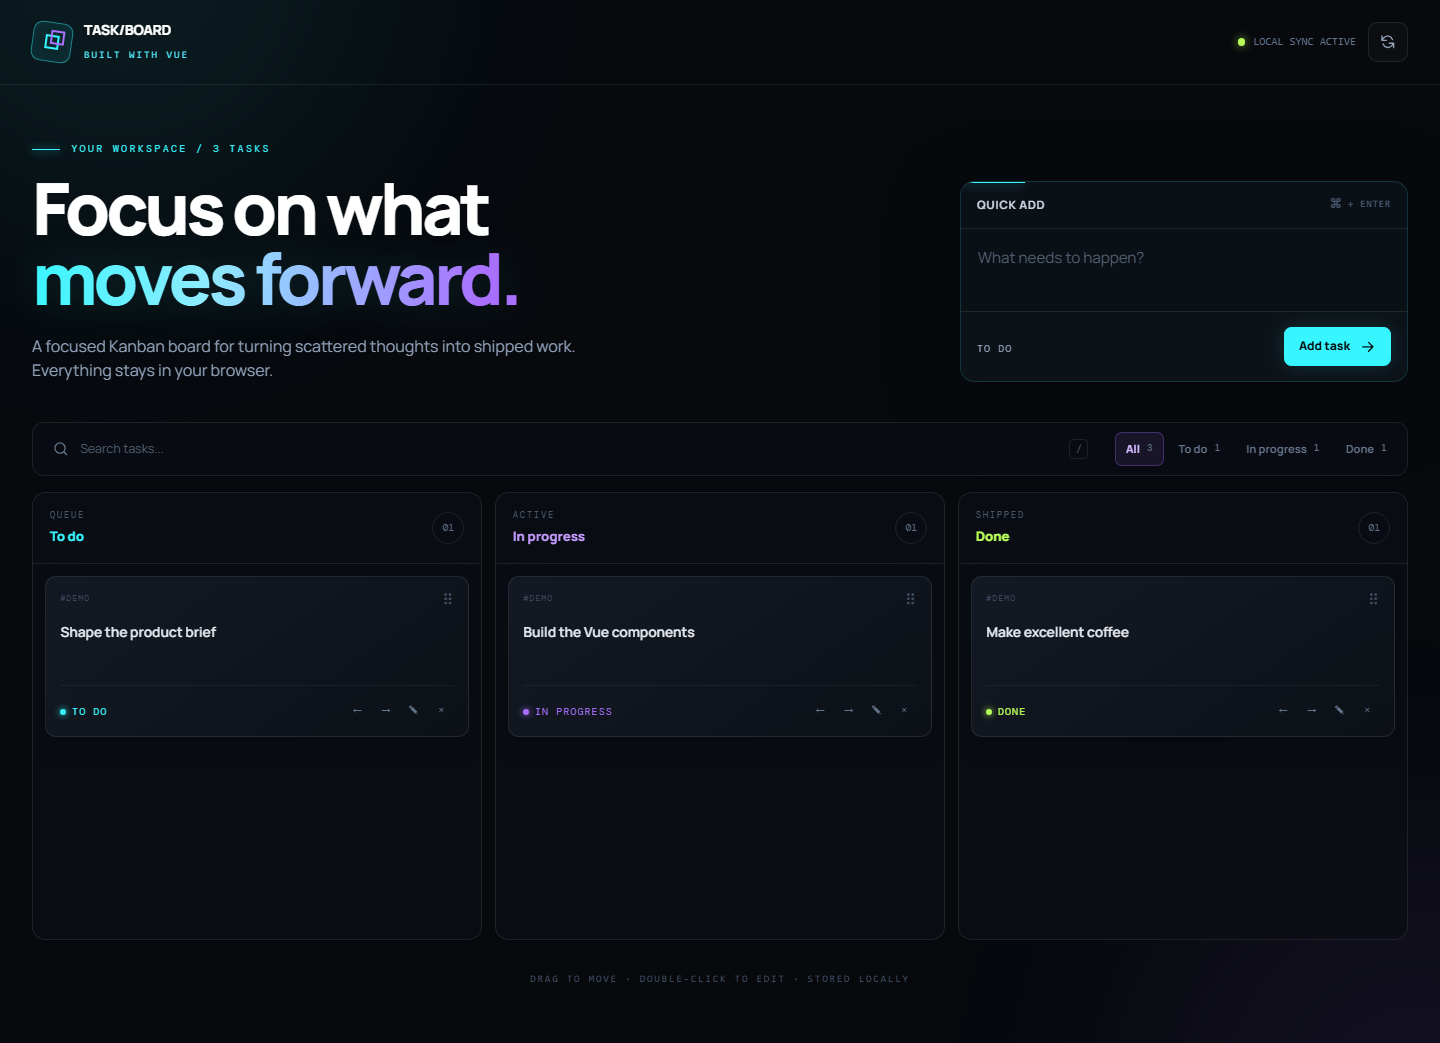
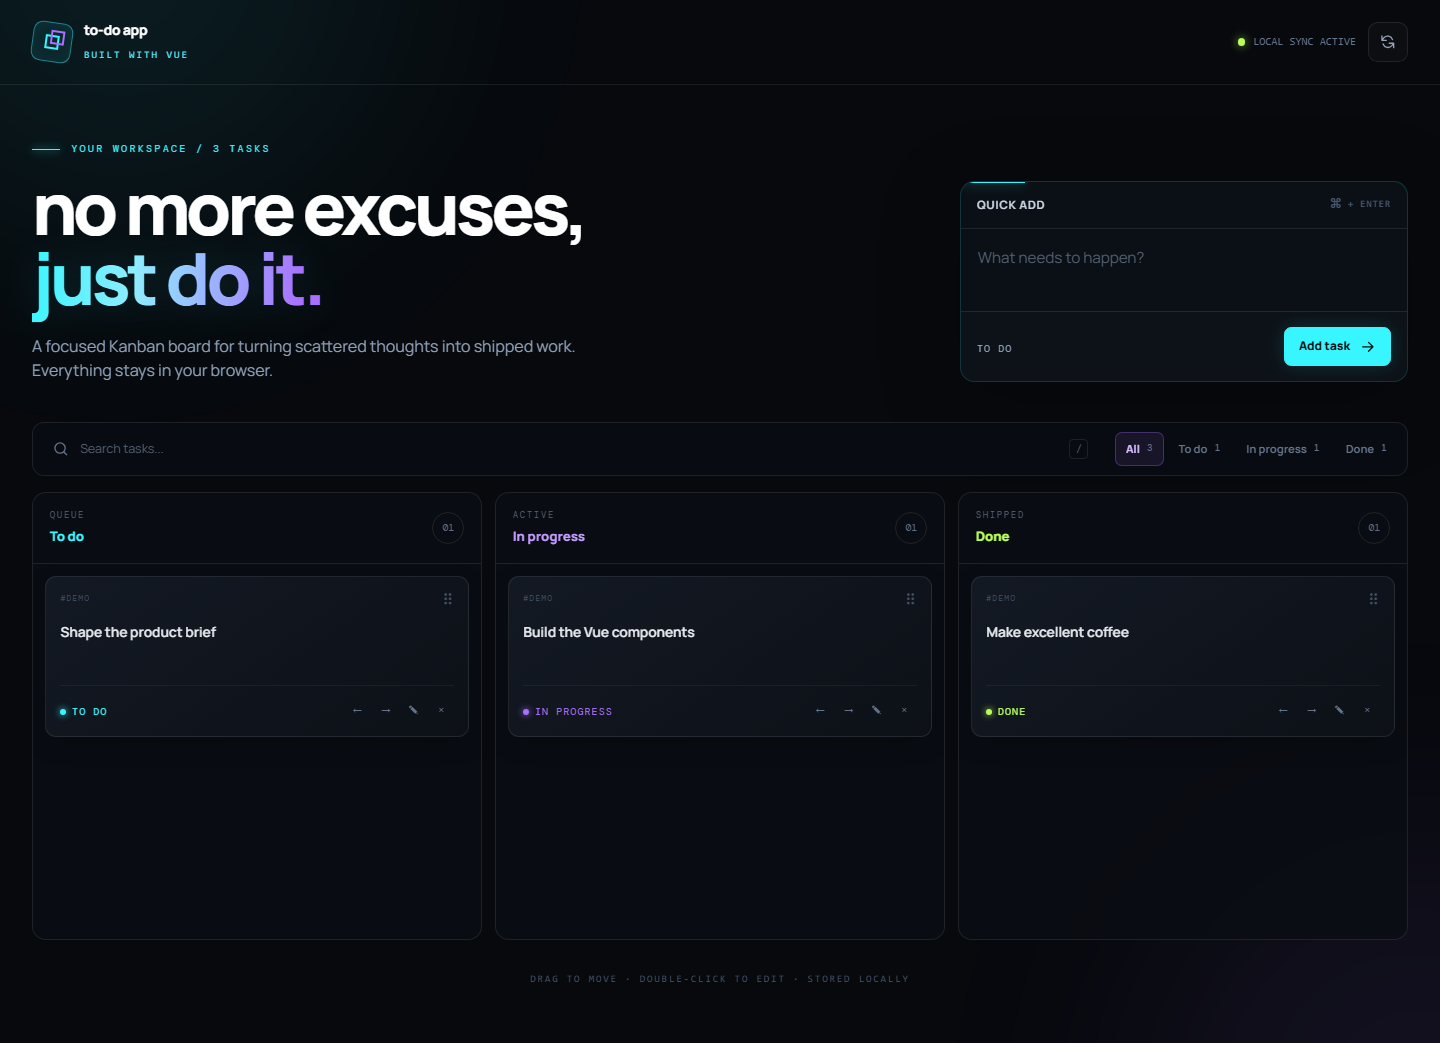
Update portfolio app copy

Changed region(s): [[0.0, 0.1534, 0.4062, 0.3068], [0.0625, 0.0, 0.125, 0.0307]]

diff --git a/src/App.vue b/src/App.vue
@@ -96,7 +96,7 @@ onBeforeUnmount(() => clearTimeout(undoTimer))
           </span>
           <span>
             <strong class="block text-sm font-extrabold tracking-tight text-white"
-              >TASK/BOARD</strong
+              >to-do app</strong
             >
             <span class="font-mono text-[10px] tracking-[0.2em] text-cyan-300">BUILT WITH VUE</span>
           </span>
@@ -133,8 +133,8 @@ onBeforeUnmount(() => clearTimeout(undoTimer))
           <h1
             class="mt-4 max-w-3xl text-4xl font-extrabold leading-[0.98] tracking-[-0.055em] text-white sm:text-6xl lg:text-7xl"
           >
-            Focus on what<br />
-            <span class="text-gradient">moves forward.</span>
+            no more excuses,<br />
+            <span class="text-gradient">just do it.</span>
           </h1>
           <p class="mt-5 max-w-xl text-sm leading-6 text-slate-400 sm:text-base">
             A focused Kanban board for turning scattered thoughts into shipped work. Everything

diff --git a/e2e/board.spec.js b/e2e/board.spec.js
@@ -3,7 +3,7 @@ import { expect, test } from '@playwright/test'
 test('creates, moves and persists a task', async ({ page }) => {
   await page.goto('/')
 
-  await expect(page.getByRole('heading', { name: /focus on what moves forward/i })).toBeVisible()
+  await expect(page.getByRole('heading', { name: /no more excuses, just do it/i })).toBeVisible()
   await page.getByLabel('Task title').fill('Prepare junior interview')
   await page.getByRole('button', { name: 'Add task' }).click()
 

diff --git a/README.md b/README.md
@@ -82,4 +82,4 @@ noise.
 
 ---
 
-Designed and built by [Pierre Guerrero](https://github.com/PierreLaGuerre).
+Designed and built by [Pierangelo Guerrero](https://github.com/PierreLaGuerre).